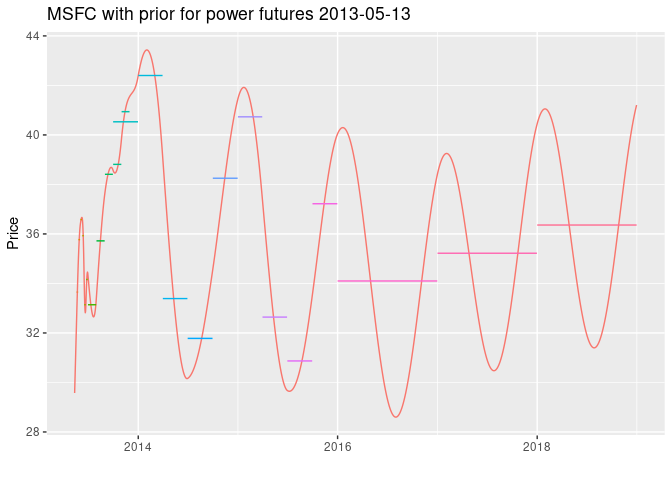
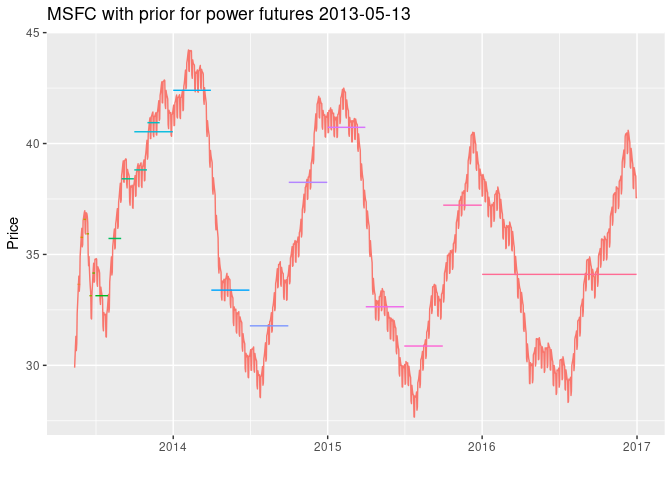
add, update and delete package data sets

diff --git a/README.md b/README.md
@@ -19,7 +19,7 @@ management in energy markets
 
 ## Installation
 
-The development version of can be installed from
+The development version can be installed from
 [GitHub](https://github.com/sleire/etrm) with:
 
 ``` r
@@ -50,38 +50,38 @@ settlement period. An example of such standard energy market contracts
 can be found in the package data set `powfutures130513`.
 
     #>    Include Contract      Start        End Closing
-    #> 7     TRUE   W21-13 2013-05-20 2013-05-26   33.65
-    #> 8     TRUE   W22-13 2013-05-27 2013-06-02   35.77
-    #> 9     TRUE   W23-13 2013-06-03 2013-06-09   36.58
-    #> 10    TRUE   W24-13 2013-06-10 2013-06-16   35.93
-    #> 11    TRUE   W25-13 2013-06-17 2013-06-23   33.14
-    #> 12    TRUE   W26-13 2013-06-24 2013-06-30   34.16
-    #> 13   FALSE  MJUN-13 2013-06-01 2013-06-30   35.35
-    #> 14    TRUE  MJUL-13 2013-07-01 2013-07-31   33.14
-    #> 15    TRUE  MAUG-13 2013-08-01 2013-08-31   35.72
-    #> 16    TRUE  MSEP-13 2013-09-01 2013-09-30   38.41
-    #> 17    TRUE  MOCT-13 2013-10-01 2013-10-31   38.81
-    #> 18    TRUE  MNOV-13 2013-11-01 2013-11-30   40.94
-    #> 19   FALSE    Q3-13 2013-07-01 2013-09-30   35.72
-    #> 20    TRUE    Q4-13 2013-10-01 2013-12-31   40.53
-    #> 21    TRUE    Q1-14 2014-01-01 2014-03-31   42.40
-    #> 22    TRUE    Q2-14 2014-04-01 2014-06-30   33.39
-    #> 23    TRUE    Q3-14 2014-07-01 2014-09-30   31.78
-    #> 24    TRUE    Q4-14 2014-10-01 2014-12-31   38.25
-    #> 25    TRUE    Q1-15 2015-01-01 2015-03-31   40.73
-    #> 26    TRUE    Q2-15 2015-04-01 2015-06-30   32.64
-    #> 27    TRUE    Q3-15 2015-07-01 2015-09-30   30.87
-    #> 28    TRUE    Q4-15 2015-10-01 2015-12-31   37.22
-    #> 29   FALSE   CAL-14 2014-01-01 2014-12-31   36.43
-    #> 30   FALSE   CAL-15 2015-01-01 2015-12-31   35.12
-    #> 31    TRUE   CAL-16 2016-01-01 2016-12-31   34.10
-    #> 32    TRUE   CAL-17 2017-01-01 2017-12-31   35.22
-    #> 33    TRUE   CAL-18 2018-01-01 2018-12-31   36.36
-    #> 34   FALSE   CAL-19 2019-01-01 2019-12-31   37.44
-    #> 35   FALSE   CAL-20 2020-01-01 2020-12-31   38.58
-    #> 36   FALSE   CAL-21 2021-01-01 2021-12-31   39.73
-    #> 37   FALSE   CAL-22 2022-01-01 2022-12-31   40.93
-    #> 38   FALSE   CAL-23 2023-01-01 2023-12-31   42.15
+    #> 1     TRUE   W21-13 2013-05-20 2013-05-26   33.65
+    #> 2     TRUE   W22-13 2013-05-27 2013-06-02   35.77
+    #> 3     TRUE   W23-13 2013-06-03 2013-06-09   36.58
+    #> 4     TRUE   W24-13 2013-06-10 2013-06-16   35.93
+    #> 5     TRUE   W25-13 2013-06-17 2013-06-23   33.14
+    #> 6     TRUE   W26-13 2013-06-24 2013-06-30   34.16
+    #> 7    FALSE  MJUN-13 2013-06-01 2013-06-30   35.35
+    #> 8     TRUE  MJUL-13 2013-07-01 2013-07-31   33.14
+    #> 9     TRUE  MAUG-13 2013-08-01 2013-08-31   35.72
+    #> 10    TRUE  MSEP-13 2013-09-01 2013-09-30   38.41
+    #> 11    TRUE  MOCT-13 2013-10-01 2013-10-31   38.81
+    #> 12    TRUE  MNOV-13 2013-11-01 2013-11-30   40.94
+    #> 13   FALSE    Q3-13 2013-07-01 2013-09-30   35.72
+    #> 14    TRUE    Q4-13 2013-10-01 2013-12-31   40.53
+    #> 15    TRUE    Q1-14 2014-01-01 2014-03-31   42.40
+    #> 16    TRUE    Q2-14 2014-04-01 2014-06-30   33.39
+    #> 17    TRUE    Q3-14 2014-07-01 2014-09-30   31.78
+    #> 18    TRUE    Q4-14 2014-10-01 2014-12-31   38.25
+    #> 19    TRUE    Q1-15 2015-01-01 2015-03-31   40.73
+    #> 20    TRUE    Q2-15 2015-04-01 2015-06-30   32.64
+    #> 21    TRUE    Q3-15 2015-07-01 2015-09-30   30.87
+    #> 22    TRUE    Q4-15 2015-10-01 2015-12-31   37.22
+    #> 23   FALSE   CAL-14 2014-01-01 2014-12-31   36.43
+    #> 24   FALSE   CAL-15 2015-01-01 2015-12-31   35.12
+    #> 25    TRUE   CAL-16 2016-01-01 2016-12-31   34.10
+    #> 26   FALSE   CAL-17 2017-01-01 2017-12-31   35.22
+    #> 27   FALSE   CAL-18 2018-01-01 2018-12-31   36.36
+    #> 28   FALSE   CAL-19 2019-01-01 2019-12-31   37.44
+    #> 29   FALSE   CAL-20 2020-01-01 2020-12-31   38.58
+    #> 30   FALSE   CAL-21 2021-01-01 2021-12-31   39.73
+    #> 31   FALSE   CAL-22 2022-01-01 2022-12-31   40.93
+    #> 32   FALSE   CAL-23 2023-01-01 2023-12-31   42.15
 
 The function `msfc()` will create an instance of the S4 class `MSFC`
 with generic methods `plot()`, `summary()` and `show()`. In addition to
@@ -90,8 +90,8 @@ prior function to the calculation. This is relevant for markets with
 strong seasonality, such as power markets. The default value is `prior
 = 0`, but the user can provide any vector expressing a belief regarding
 the market to be combined with the observed prices. In the example below
-we have used a simple trigonometric prior with higher price level during
-the winter season, and lower during summer.
+we have used a simple seasonal prior from the package `powpriors130513`
+data set.
 
 ``` r
 fwd_fut_wpri <- msfc(tdate = as.Date("2013-05-13"),          # trading date
@@ -100,7 +100,7 @@ fwd_fut_wpri <- msfc(tdate = as.Date("2013-05-13"),          # trading date
                      sdate = powfutures130513$Start,         # vector with contract start dates
                      edate = powfutures130513$End,           # vector with contract end dates
                      f = powfutures130513$Closing,           # vector with contract closing prices
-                     prior = simple_trig_prior               # prior function
+                     prior = powpriors130513$mod.prior       # prior function
                      )
 
 plot(fwd_fut_wpri, legend = "", title = "MSFC with prior for power futures 2013-05-13")
@@ -108,46 +108,51 @@ plot(fwd_fut_wpri, legend = "", title = "MSFC with prior for power futures 2013-
 
 <img src="man/figures/README-msfc_fut_wpri-1.png" width="90%" />
 
-The `msfc()` creates the smoothest possible forward curve by minimizing
-the mean squared value of a forward curve spline function, while
-ensuring that the average value of the curve is equal to contract prices
-used in the calculation for the respective time intervals. The number of
-polynomials used in the spline along with `head(prior)` and computed
-prices based on the curve are available with the `summary()` method:
+The forward curve is calculated with the function
+
+\(f(t) = \lambda(t) + \epsilon(t)\)
+
+where \(\lambda(t)\) is the prior supplied by the user and
+\(\epsilon(t)\) is an adjustment function taking the observed prices
+into account. The `msfc()` function finds the smoothest possible
+adjustment function by minimizing the mean squared value of a spline
+function, while ensuring that the average value of the curve \(f(t)\) is
+equal to contract prices used in the calculation for the respective time
+intervals. The number of polynomials used in the spline along with
+`head(prior)` and computed prices based on the curve are available with
+the `summary()` method:
 
 ``` r
 summary(fwd_fut_wpri)
 #> $Description
-#> [1] "MSFC of length 2059 built with 45 polynomials at trade date 2013-05-13"
+#> [1] "MSFC of length 1329 built with 41 polynomials at trade date 2013-05-13"
 #> 
 #> $PriorFunc
-#> [1] 29.28941 29.20787 29.12667 29.04582 28.96536 28.88530
+#> [1] 30.10842 30.16396 30.19572 30.16144 29.06268 28.93272
 #> 
 #> $BenchSheet
 #>    Include Contract       From         To Price  Comp
-#> 7     TRUE   W21-13 2013-05-20 2013-05-26 33.65 33.65
-#> 8     TRUE   W22-13 2013-05-27 2013-06-02 35.77 35.77
-#> 9     TRUE   W23-13 2013-06-03 2013-06-09 36.58 36.58
-#> 10    TRUE   W24-13 2013-06-10 2013-06-16 35.93 35.93
-#> 11    TRUE   W25-13 2013-06-17 2013-06-23 33.14 33.14
-#> 12    TRUE   W26-13 2013-06-24 2013-06-30 34.16 34.16
-#> 14    TRUE  MJUL-13 2013-07-01 2013-07-31 33.14 33.14
-#> 15    TRUE  MAUG-13 2013-08-01 2013-08-31 35.72 35.72
-#> 16    TRUE  MSEP-13 2013-09-01 2013-09-30 38.41 38.41
-#> 17    TRUE  MOCT-13 2013-10-01 2013-10-31 38.81 38.81
-#> 18    TRUE  MNOV-13 2013-11-01 2013-11-30 40.94 40.94
-#> 20    TRUE    Q4-13 2013-10-01 2013-12-31 40.53 40.53
-#> 21    TRUE    Q1-14 2014-01-01 2014-03-31 42.40 42.40
-#> 22    TRUE    Q2-14 2014-04-01 2014-06-30 33.39 33.39
-#> 23    TRUE    Q3-14 2014-07-01 2014-09-30 31.78 31.78
-#> 24    TRUE    Q4-14 2014-10-01 2014-12-31 38.25 38.25
-#> 25    TRUE    Q1-15 2015-01-01 2015-03-31 40.73 40.73
-#> 26    TRUE    Q2-15 2015-04-01 2015-06-30 32.64 32.64
-#> 27    TRUE    Q3-15 2015-07-01 2015-09-30 30.87 30.87
-#> 28    TRUE    Q4-15 2015-10-01 2015-12-31 37.22 37.22
-#> 31    TRUE   CAL-16 2016-01-01 2016-12-31 34.10 34.10
-#> 32    TRUE   CAL-17 2017-01-01 2017-12-31 35.22 35.22
-#> 33    TRUE   CAL-18 2018-01-01 2018-12-31 36.36 36.36
+#> 1     TRUE   W21-13 2013-05-20 2013-05-26 33.65 33.65
+#> 2     TRUE   W22-13 2013-05-27 2013-06-02 35.77 35.77
+#> 3     TRUE   W23-13 2013-06-03 2013-06-09 36.58 36.58
+#> 4     TRUE   W24-13 2013-06-10 2013-06-16 35.93 35.93
+#> 5     TRUE   W25-13 2013-06-17 2013-06-23 33.14 33.14
+#> 6     TRUE   W26-13 2013-06-24 2013-06-30 34.16 34.16
+#> 8     TRUE  MJUL-13 2013-07-01 2013-07-31 33.14 33.14
+#> 9     TRUE  MAUG-13 2013-08-01 2013-08-31 35.72 35.72
+#> 10    TRUE  MSEP-13 2013-09-01 2013-09-30 38.41 38.41
+#> 11    TRUE  MOCT-13 2013-10-01 2013-10-31 38.81 38.81
+#> 12    TRUE  MNOV-13 2013-11-01 2013-11-30 40.94 40.94
+#> 14    TRUE    Q4-13 2013-10-01 2013-12-31 40.53 40.53
+#> 15    TRUE    Q1-14 2014-01-01 2014-03-31 42.40 42.40
+#> 16    TRUE    Q2-14 2014-04-01 2014-06-30 33.39 33.39
+#> 17    TRUE    Q3-14 2014-07-01 2014-09-30 31.78 31.78
+#> 18    TRUE    Q4-14 2014-10-01 2014-12-31 38.25 38.25
+#> 19    TRUE    Q1-15 2015-01-01 2015-03-31 40.73 40.73
+#> 20    TRUE    Q2-15 2015-04-01 2015-06-30 32.64 32.64
+#> 21    TRUE    Q3-15 2015-07-01 2015-09-30 30.87 30.87
+#> 22    TRUE    Q4-15 2015-10-01 2015-12-31 37.22 37.22
+#> 25    TRUE   CAL-16 2016-01-01 2016-12-31 34.10 34.10
 ```
 
 The calculation without prior function, for comparison:
